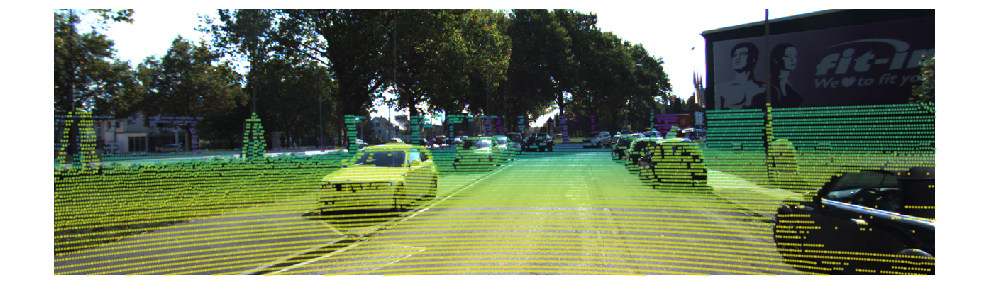
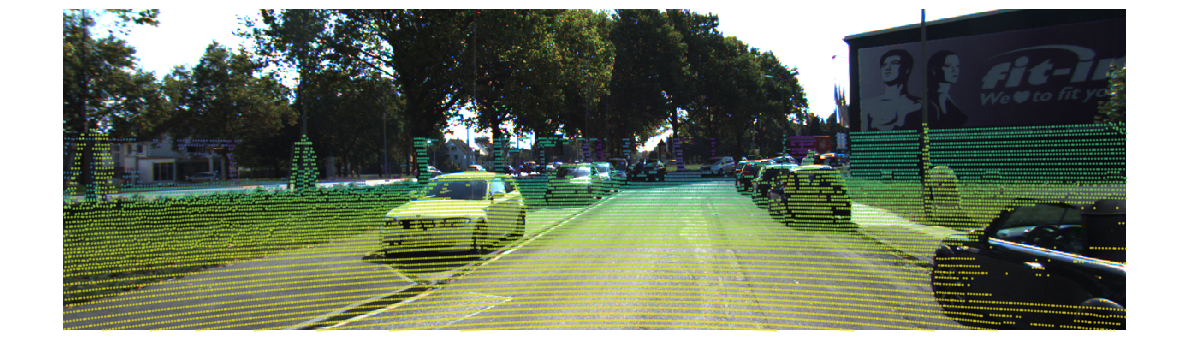
add img to point cloud

diff --git a/img_to_cloud.py b/img_to_cloud.py
@@ -1,0 +1,72 @@
+import numpy as np
+import seaborn as sns
+import mayavi.mlab as mlab
+
+from skimage import io
+
+file_id = '000010'
+
+if __name__ == '__main__':
+  # load point clouds
+  scan_dir = f'examples\\kitti\\velodyne\\{file_id}.bin'
+  scan = np.fromfile(scan_dir, dtype=np.float32).reshape(-1, 4)
+
+  # load image
+  img = np.array(io.imread(f'examples\\kitti\\image_2\\{file_id}.png'), dtype=np.int32)
+
+  # load labels
+  with open(f'examples\\kitti\\label_2\\{file_id}.txt', 'r') as f:
+    labels = f.readlines()
+
+  # load calibration file
+  with open(f'examples\\kitti\\calib\\{file_id}.txt', 'r') as f:
+    lines = f.readlines()
+    P2 = np.array(lines[2].strip().split(' ')[1:], dtype=np.float32).reshape(3, 4)
+    R0 = np.array(lines[4].strip().split(' ')[1:], dtype=np.float32).reshape(3, 3)
+    V2C = np.array(lines[5].strip().split(' ')[1:], dtype=np.float32).reshape(3, 4)
+
+  # transform the pointcloud from velodyne coordiante to camera_0 coordinate
+  scan_hom = np.hstack((scan[:, :3], np.ones((scan.shape[0], 1), dtype=np.float32)))  # [N, 4]
+  scan_C0 = np.dot(scan_hom, np.dot(V2C.T, R0.T))  # [N, 3]
+
+  # transform the pointcloud from camera_0 coordinate to camera_2 coordinate
+  scan_C0_hom = np.hstack((scan_C0, np.ones((scan.shape[0], 1), dtype=np.float32)))  # [N, 4]
+  scan_C2 = np.dot(scan_C0_hom, P2.T)  # [N, 3]
+  scan_C2_depth = scan_C2[:, 2]
+  scan_C2 = (scan_C2[:, :2].T / scan_C2[:, 2]).T
+
+  # remove points outside the image
+  inds = scan_C2_depth > 0
+  inds = np.logical_and(inds, scan_C2[:, 0] > 0)
+  inds = np.logical_and(inds, scan_C2[:, 0] < img.shape[1])
+  inds = np.logical_and(inds, scan_C2[:, 1] > 0)
+  inds = np.logical_and(inds, scan_C2[:, 1] < img.shape[0])
+
+  scan_C2 = scan_C2[inds]
+  scan_in_img = scan[inds]
+  scan_not_in_img = scan[np.logical_not(inds)]
+
+  colors = img[scan_C2[:, 1].astype(np.int), scan_C2[:, 0].astype(np.int)]
+  colors = np.concatenate([colors, np.ones([colors.shape[0], 1]) * 255], axis=1)
+
+  fig = mlab.figure(bgcolor=(0, 0, 0), size=(1280, 720))
+
+  # draw point cloud not in image
+  # mlab.points3d(scan_not_in_img[:, 0],
+  #               scan_not_in_img[:, 1],
+  #               scan_not_in_img[:, 2], mode="point", figure=fig)
+
+  # draw point cloud not in image
+  plot = mlab.points3d(scan_in_img[:, 0],
+                       scan_in_img[:, 1],
+                       scan_in_img[:, 2],
+                       np.arange(len(scan_in_img)), mode="point", figure=fig)
+
+  # magic to modify lookup table
+  plot.module_manager.scalar_lut_manager.lut._vtk_obj.SetTableRange(0, colors.shape[0])
+  plot.module_manager.scalar_lut_manager.lut.number_of_colors = colors.shape[0]
+  plot.module_manager.scalar_lut_manager.lut.table = colors
+
+  mlab.view(azimuth=230, distance=50, elevation=60, focalpoint=np.mean(scan_in_img, axis=0)[:-1])
+  mlab.savefig(filename='examples/kitti_img_to_cloud.png')
+  mlab.show()

diff --git a/cloud_to_img.py b/cloud_to_img.py
@@ -28,17 +28,17 @@ if __name__ == '__main__':
     R0 = np.array(lines[4].strip().split(' ')[1:], dtype=np.float32).reshape(3, 3)
     V2C = np.array(lines[5].strip().split(' ')[1:], dtype=np.float32).reshape(3, 4)
 
-  fig = plt.figure(figsize=(10, 5))
+  fig = plt.figure(figsize=(12, 6))
   # draw image
   plt.imshow(img)
 
   # transform the pointcloud from velodyne coordiante to camera_0 coordinate
-  scan_hom = np.hstack((scan[:, :3], np.ones((scan.shape[0], 1), dtype=np.float32)))
-  scan_C0 = np.dot(scan_hom, np.dot(V2C.T, R0.T))
+  scan_hom = np.hstack((scan[:, :3], np.ones((scan.shape[0], 1), dtype=np.float32))) # [N, 4]
+  scan_C0 = np.dot(scan_hom, np.dot(V2C.T, R0.T)) # [N, 3]
 
   # transform the pointcloud from camera_0 coordinate to camera_2 coordinate
-  scan_C0_hom = np.hstack((scan_C0, np.ones((scan.shape[0], 1), dtype=np.float32)))
-  scan_C2 = np.dot(scan_C0_hom, P2.T)
+  scan_C0_hom = np.hstack((scan_C0, np.ones((scan.shape[0], 1), dtype=np.float32))) # [N, 4]
+  scan_C2 = np.dot(scan_C0_hom, P2.T) # [N, 3]
   scan_C2_depth = scan_C2[:, 2]
   scan_C2 = (scan_C2[:, :2].T / scan_C2[:, 2]).T
 

diff --git a/README.md b/README.md
@@ -18,6 +18,9 @@ and [Semantic Kitti](http://www.semantic-kitti.org/) dataset.
 ### 3d bounding box to point cloud
 <img src="https://github.com/zzzxxxttt/simple_kitti_visualization/blob/master/examples/kitti_3dbox_to_cloud.png"/>
 
+### image to point cloud
+<img src="https://github.com/zzzxxxttt/simple_kitti_visualization/blob/master/examples/kitti_img_to_cloud.png"/>
+
 ### 2d bounding box to image
 <img src="https://github.com/zzzxxxttt/simple_kitti_visualization/blob/master/examples/kitti_bbox_to_img.png"/>
 
